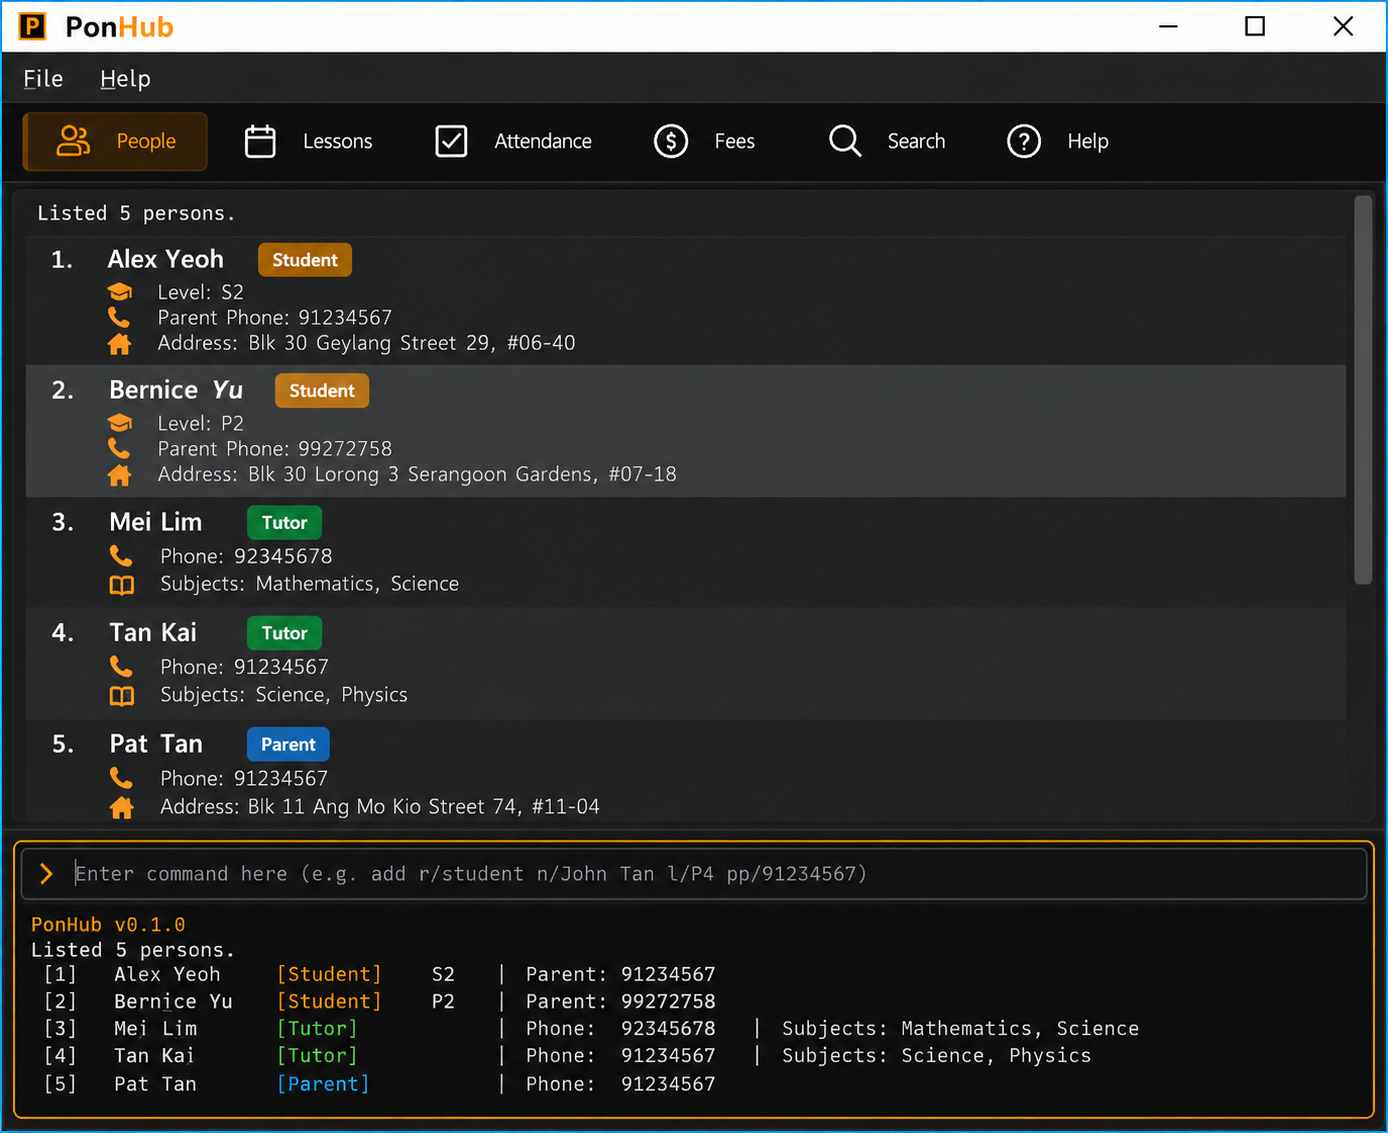
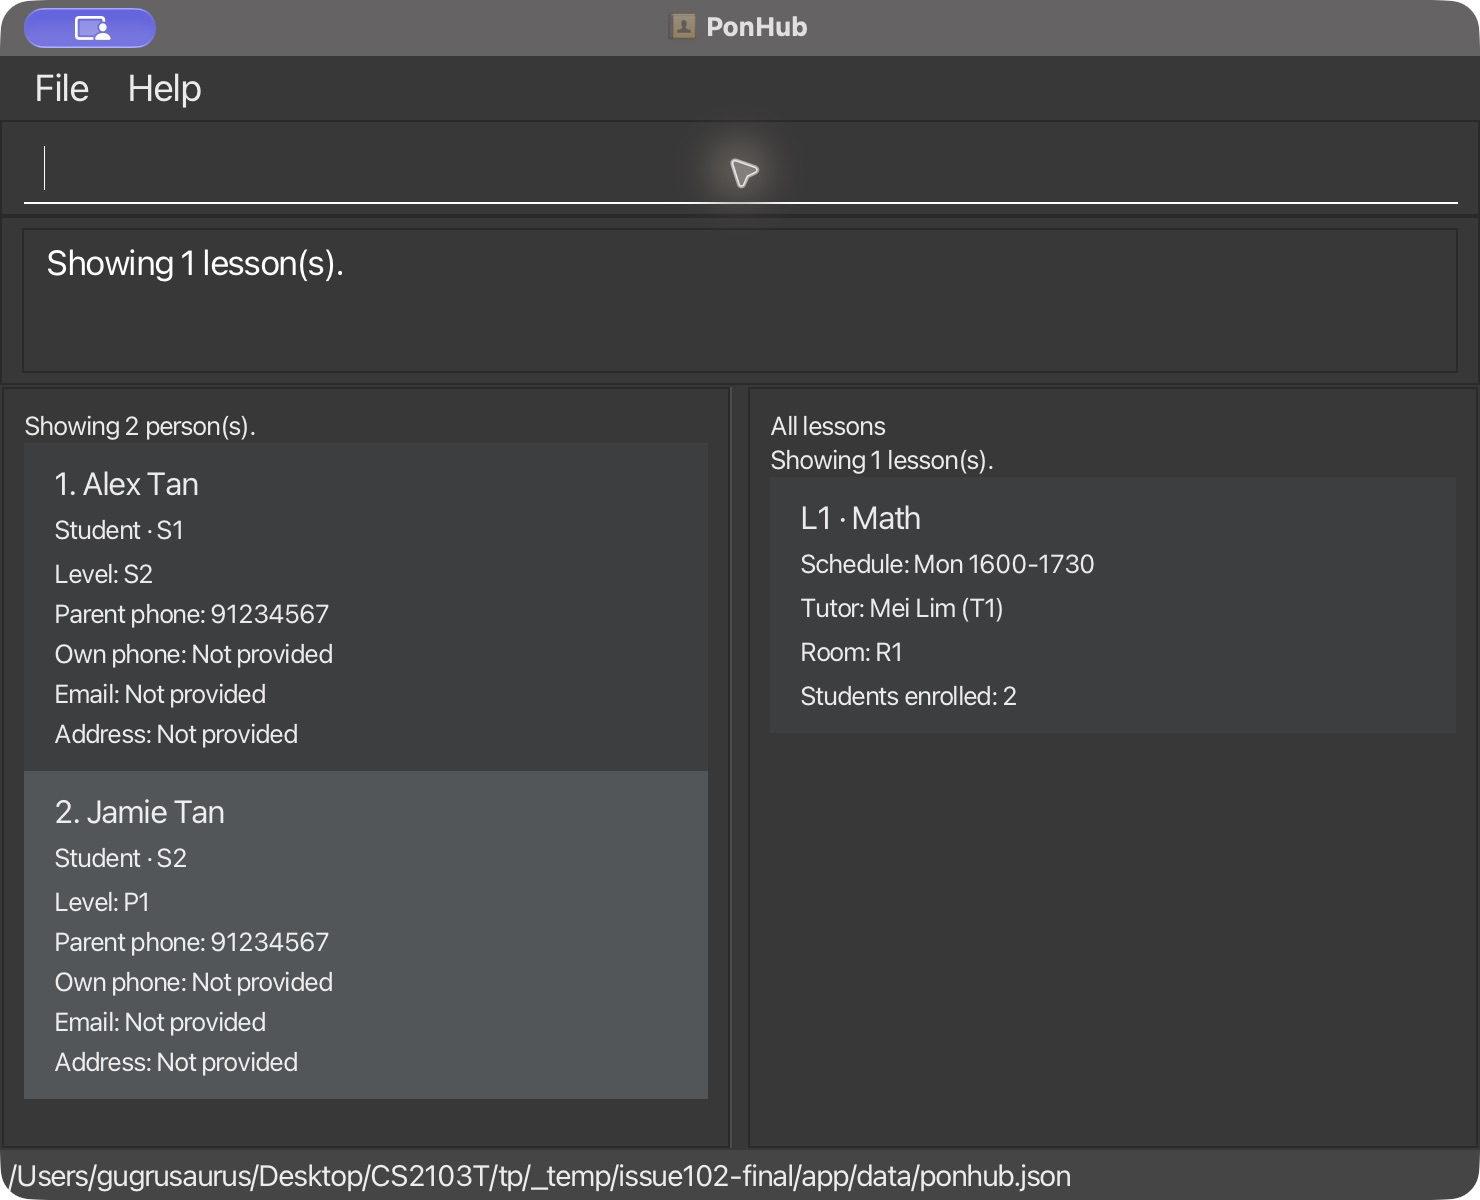
Capture accepted workflow and reconcile guide media
Verify the real command-box workflow and restart on c5b8233e.
Refresh guide and homepage images, record source-qualified evidence,
and preserve Ben's original media and feature credits.

Part of #102 and #152. Merge and deployed-page verification remain
required before #102 closure; final release-JAR checks stay in #103.
Prepared with OpenAI Codex assistance.

diff --git a/release/v1.3/guide-verification.md b/release/v1.3/guide-verification.md
@@ -1,0 +1,36 @@
+# Integrated guide and media verification — 15 October 2026
+
+Vincent's Codex-assisted #102 verification, following [completed #101 acceptance](https://github.com/AY2627S1-CS2103T-F13-3/tp/issues/101#issuecomment-6194333977). This records completed checks and the remaining integration gate; it is not final release-JAR/platform acceptance.
+
+## Source and artifact
+
+- Accepted application: `c5b8233e9bfaf5b8c7eb7f6af8932345c17c4c63`, containing merged #250's history contrast fix.
+- Application built on media branch `003a79d8260187d51f3448ca7310e16c7a1b7d7c`; production source/resources and build.gradle are identical to that accepted application. Subsequent changes are guide/release prose and images.
[1 lines of base64/hex data omitted]
+- Actual runtime: macOS 27.0.1 arm64, prescribed Azul Java/JavaFX 25.0.3. Window 740x600 logical pixels; screenshots 1480x1200 pixels. An isolated macOS launcher executes the unmodified JAR to expose its window to the accessibility tool. The JAR still logs application version 1.2; release version/artifact reconciliation remains #103/#153 work.
+
+## Actual guide workflow
+
+The visible command box executed 33 recorded submissions across two launches, plus normal exit commands. Checks cover Student/Tutor/Parent creation; two Students enrolled in one Lesson; present/absent attendance; correction to absent/absent; unenrolment and readable former-member history; all four relationship-search categories; history help; complete exit/relaunch; stable IDs, retained history and roster after restart; selective unmark; missing-record no-op; blocked L1 deletion and successful unreferenced L2 deletion.
+
+One submission accidentally appended a new command to the previous rejected input, which the app deliberately retains. It was rejected without changing data. Replacing the complete input and rerunning the command passed. The unsuccessful attempt remains in the transcript. This is not a claim of 33 independent test cases.
+
+The operational JSON is byte-identical before exit and after relaunch plus read-only list/lessons/history checks. New media is linked from the [release notes](notes.md); the [media manifest](media-plan.md) records authorship, captions, source and limits. Ben's original LessonResults.png is retained, with its authorship credited. README/index/UG now consistently use the refreshed Ui.png; UG additionally demonstrates dated attendance and retained history. The old caption's empty-Lesson claim is replaced with what the new capture actually shows.
+
+## Source and documentation checks
+
+- UG and DG each contain the same 13 search-prefix/category combinations as SearchField. All 15 catalogue commands appear in the UG summary. Current people indices, stable Lesson IDs, own-field/relationship search and future-scope distinctions remain consistent.
+- All 20 advertised master source paths in DG resolve. Person/lesson/attendance diagram types resolve to implementation; their described ownership matches immutable PersonRecord roles, Lesson-owned rosters and independent AttendanceKey records. Inherited AB3 diagrams remain explicitly labelled historical.
+- Owner manual checks, source/reuse/Codex acknowledgements, all accepted headings/explicit aliases and the Requirements appendix are retained. Unsupported legacy contact wording is already absent; no replacement email was invented.
+- Full frozen-lockfile builds of accepted and proposed documentation pass: Ruby 3.3.12, Bundler 2.5.11, Jekyll 3.10.0, github-pages 232. Dependencies are unchanged. The expected unauthenticated GitHub-metadata warning is recorded.
+- Proposed render: 10 HTML pages, 291 local href/src references, zero missing targets/fragments or duplicate IDs; all 16 UG/DG tables have uniform columns. Local release-document links were checked separately.
+- In-app browser: UG, DG, AboutUs and index checked at 1280x720 and 800x720; no page/table horizontal overflow or failed images after page load. The new history capture and its caption were visually inspected in the compact guide. All 19 guide image elements load. Viewport overrides were reset.
+- Repository EOF, line-ending, trailing-whitespace and diff checks pass. No additional Java tests were introduced or claimed; earlier independently reviewed #101/#249 evidence retains its original source identity.
+
+## Deployment and remaining integration
+
+GitHub Pages reported a successful build from accepted `c5b8233e` (updated 2026-10-15 14:19:45 UTC). The published UG, DG, AboutUs and index main text matches a fresh render of that commit after whitespace normalization. Published diagrams, portraits, badges and existing screenshots load. This establishes accepted-source/site parity, not deployment of this media follow-up.
+
+PR #249 contains independently approved quick-start observations. PR #251 contains the ownership correction, final guide images and this evidence. Their new text/media must be reviewed and merged by Zhi Yu, then confirmed in the actual Pages deployment before #102 is closed. Final #103 candidate identity, release publication and release-context media/link verification remain separate.
+
+Local reproducible evidence in Vincent's workspace: `_temp/issue102-final/` contains `native-transcript.json`, the isolated app/JAR and launch logs, pre-restart JSON, accepted/proposed Jekyll builds and logs, `audit.py`/`audit.json`, `contract-audit.py`, `parity.py`/`parity.json`, published DOM text, browser measurements and screenshots. Only disposable fixture data was used.

diff --git a/release/v1.3/media-plan.md b/release/v1.3/media-plan.md
@@ -4,7 +4,7 @@ Owner: Vincent (`gugrusaurus`), #152 / #102. Publisher: Yang (`ys000009`), #153.
 
 ## Source and readiness
 
-The draft [release notes](notes.md) were checked against accepted master `4e3619fc50e74a5b186631b64ff15e2a7496d414`: the canonical command catalogue/session, User Guide and delivered search/history contracts. This is not the final release-candidate identity. PR #249 adds visible quick-start attendance checks; PR #250 addresses #248's native history readability finding. Neither was merged when this draft was prepared.
+The draft [release notes](notes.md) were checked against accepted master `4e3619fc50e74a5b186631b64ff15e2a7496d414`: the canonical command catalogue/session, User Guide and delivered search/history contracts. This is not the final release-candidate identity. PR #249 adds visible quick-start attendance checks; PR #250 addresses #248's native history readability finding. Neither was merged when the initial draft was prepared. #250 has since merged at c5b8233e; #101 and #248 are closed.
 
 Final media and publication remain pending accepted #101/#102 evidence and the exact packaged candidate verified under #103. Do not label baseline checks or existing images as final-candidate evidence.
 
@@ -51,12 +51,26 @@ Optional removal/guard demonstration, after the main captures: `list r/student`,
 
 - [ ] Record accepted source SHA and the exact #103-verified JAR identity/runtime.
 - [ ] Recheck every release-note claim and command against that candidate; record actual demo outcomes, including failures.
-- [ ] Capture the integrated images/recording; record relative paths, captions, authors and source identity here.
-- [ ] Confirm images show readable current UI and no real operational data. Preserve credits for reused Ben media.
+- [x] Capture the integrated images/recording; record relative paths, captions, authors and source identity here.
+- [x] Confirm images show readable current UI and no real operational data. Preserve credits for reused Ben media.
 - [ ] Complete #102's guide/source/published-site consistency checks against accepted changes.
 - [ ] Replace the draft notice in notes.md only when release copy and media are accepted; record any remaining user-facing limitation.
 - [ ] Hand Yang the accepted notes path, media paths, captions and candidate identity for #153; verify GitHub-rendered media and links after publication.
 
-Final source: pending. JAR identity: pending. New capture paths: pending. #152 remains open. This preparation does not publish a release or claim native/package acceptance.
[1 lines of base64/hex data omitted]
+
+Vincent captured the actual app on macOS 27.0.1 arm64, Azul Java/JavaFX 25.0.3 (`25.0.3.fx-zulu`), in a 740x600 logical window (1480x1200 screenshot pixels). A temporary macOS launcher identified the app to the accessibility tool; it executes the same JAR, without changing application classes/resources. Disposable data only. Captures are full-window images; Ui.png is a format conversion of the original JPEG capture, with no content alteration.
+
+| Image | Author | Verified content |
+| --- | --- | --- |
+| `docs/images/Ui.png` | Vincent, Codex-assisted native capture | Alex and Jamie share L1; roster count 2. |
+| `docs/images/AttendanceDetails.jpg` | Vincent, Codex-assisted native capture | Alex present / Jamie absent for 2026-10-05. |
+| `docs/images/AttendanceHistory.jpg` | Vincent, Codex-assisted native capture | Alex absent after correction and unenrolment; former-enrolment label readable. |
+
+Native command-box replay also verified all four relationship-search categories, correction to absent/absent, complete exit/relaunch, retained IDs/roster/history, selective unmark, repeated unmark no-op and guarded/valid Lesson deletion. The stored file was byte-identical across exit/relaunch and subsequent read-only checks. One automation entry accidentally appended to a rejected command retained by the UI; replacing the full input and rerunning passed. The failed attempt remains in the transcript.
+
+Evidence: `_temp/issue102-final/native-transcript.json`, build/launch logs, isolated JAR and pre-restart JSON in Vincent's Mac workspace. These are source-qualified guide/media checks, not Yang's final #103 artifact or all-platform acceptance. Final release source/JAR reconciliation remains pending; #152 stays open until final handoff. No release is published.
 
 Prepared by Vincent with OpenAI Codex assistance. Ben's feature facts and media remain credited to Ben; feature owners retain implementation/documentation authorship.
+
+See [the integrated guide verification report](guide-verification.md) for completed native, source, render and accepted-site parity checks and the remaining deployment gate.

diff --git a/release/v1.3/notes.md b/release/v1.3/notes.md
@@ -1,6 +1,6 @@
 # PonHub v1.3 — What's New
 
-Draft release copy. Final candidate verification and demonstration media are pending; this document does not announce publication. See [the media and publication handoff](media-plan.md).
+Draft release copy. Demonstration media below uses accepted application source c5b8233e. Final release-JAR verification is pending; this document does not announce publication. See [the media and publication handoff](media-plan.md).
 
 PonHub adapts AddressBook-Level3 into a desktop workspace for tuition centre administrators. Manage Students, Tutors and Parents, enrol multiple Students in one recurring Lesson, and keep dated attendance even after a Student leaves. Commands remain keyboard-driven, with separate people and lesson/history views.
 
@@ -38,6 +38,20 @@ PonHub adapts AddressBook-Level3 into a desktop workspace for tuition centre adm
 - Dependency guards prevent deleting a Student with membership/history, a Tutor with assigned Lessons, or a Lesson with a roster/history. Deletion does not silently cascade through related records, and deleted IDs are not reused.
 - Invalid, unsupported or legacy operational files start a protected session with recovery guidance and only `help`, `list` and `exit`. The original file is preserved. Existing AB3 data is not automatically imported: back it up and follow the User Guide's manual re-entry instructions.
 - Inline `help`, `help COMMAND`, the Help menu and F1 describe the routes available in the current session.
+
+## PonHub in action
+
+![Two Students sharing one recurring Lesson](../../docs/images/Ui.png)
+
+Alex and Jamie share one Math Lesson with one Tutor and schedule.
+
+![Independent attendance for the same occurrence](../../docs/images/AttendanceDetails.jpg)
+
+Alex is present while Jamie is absent on the same date.
+
+![Retained attendance after unenrolment](../../docs/images/AttendanceHistory.jpg)
+
+After correcting Alex's record and unenrolling Alex, the dated absence remains visible as former-enrolment history.
 
 ## Before you start
 

diff --git a/docs/UserGuide.md b/docs/UserGuide.md
@@ -300,9 +300,9 @@ Examples, after creating the Math lesson above:
 people filters, order, selection and command positions, and never save operational data. Invalid commands leave
 both views intact. Committed changes refresh the selected results; a failed save leaves the previous cards intact.
 
-![Separate people and shared-lesson results](images/LessonResults.png)
+![Separate people and shared-lesson results](images/Ui.png)
 
-The screenshot uses disposable sample data and shows one shared lesson with two students and an empty lesson.
+The screenshot uses disposable sample data and shows Alex and Jamie enrolled in one shared Math lesson.
 
 ## Data protection in the current build
 
@@ -584,6 +584,14 @@ roster/history row or stable ID suffix. `lessons`, `showlesson` or a lesson sear
 
 Deleting the selected Student or the selected Lesson successfully clears that history selection and returns the
 right panel to lesson results. Unrelated deletions and failed deletions preserve a valid history selection.
+
+![Independent dated attendance for two Students](images/AttendanceDetails.jpg)
+
+Alex is present and Jamie is absent for the same Lesson occurrence.
+
+![Retained attendance after unenrolment](images/AttendanceHistory.jpg)
+
+After correcting Alex to absent and unenrolling Alex, history retains the dated absence with former-enrolment context.
 
 <a id="planned-failure-and-data-behavior"></a>
 

diff --git a/docs/index.md b/docs/index.md
@@ -6,7 +6,7 @@ title: PonHub
 [![Java CI](https://github.com/AY2627S1-CS2103T-F13-3/tp/actions/workflows/gradle.yml/badge.svg)](https://github.com/AY2627S1-CS2103T-F13-3/tp/actions/workflows/gradle.yml)
 [![codecov](https://codecov.io/gh/AY2627S1-CS2103T-F13-3/tp/branch/master/graph/badge.svg)](https://codecov.io/gh/AY2627S1-CS2103T-F13-3/tp)
 
-![Ui](images/LessonResults.png)
+![Two Students sharing one Lesson](images/Ui.png)
 
 
 

diff --git a/README.md b/README.md
@@ -1,6 +1,6 @@
 [![Java CI](https://github.com/AY2627S1-CS2103T-F13-3/tp/actions/workflows/gradle.yml/badge.svg)](https://github.com/AY2627S1-CS2103T-F13-3/tp/actions/workflows/gradle.yml)
 
-![People and shared-lesson results](docs/images/LessonResults.png)
+![People and shared-lesson results](docs/images/Ui.png)
 
 # PonHub
 
